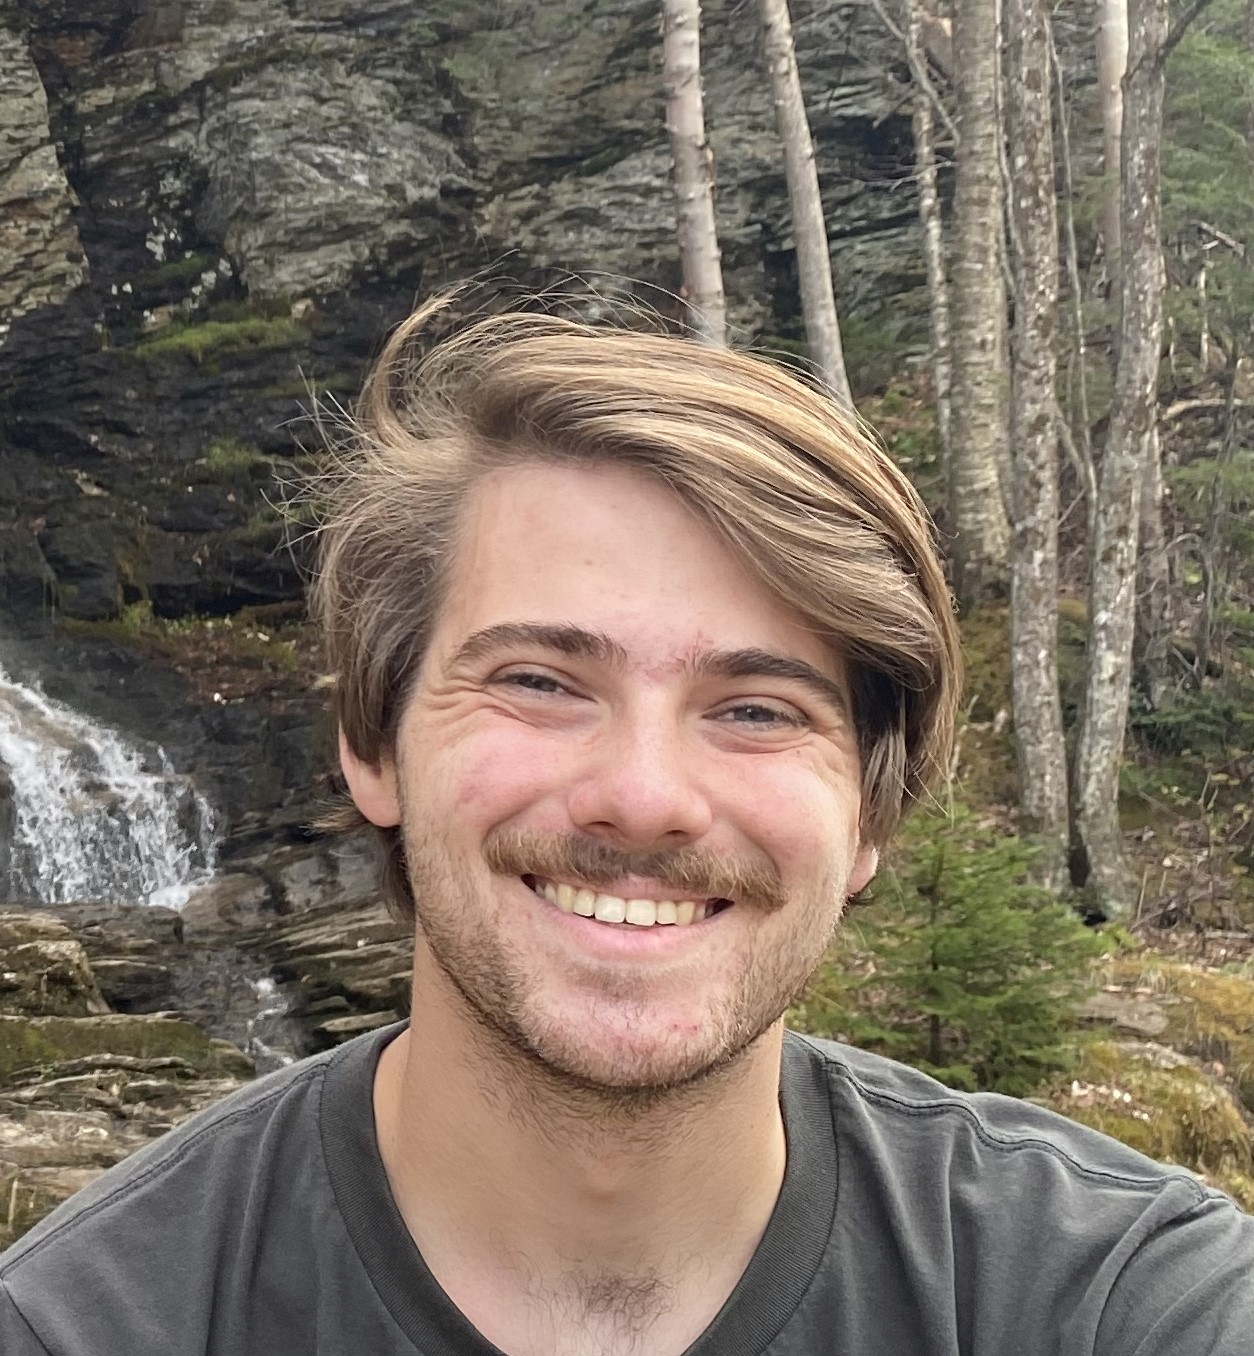
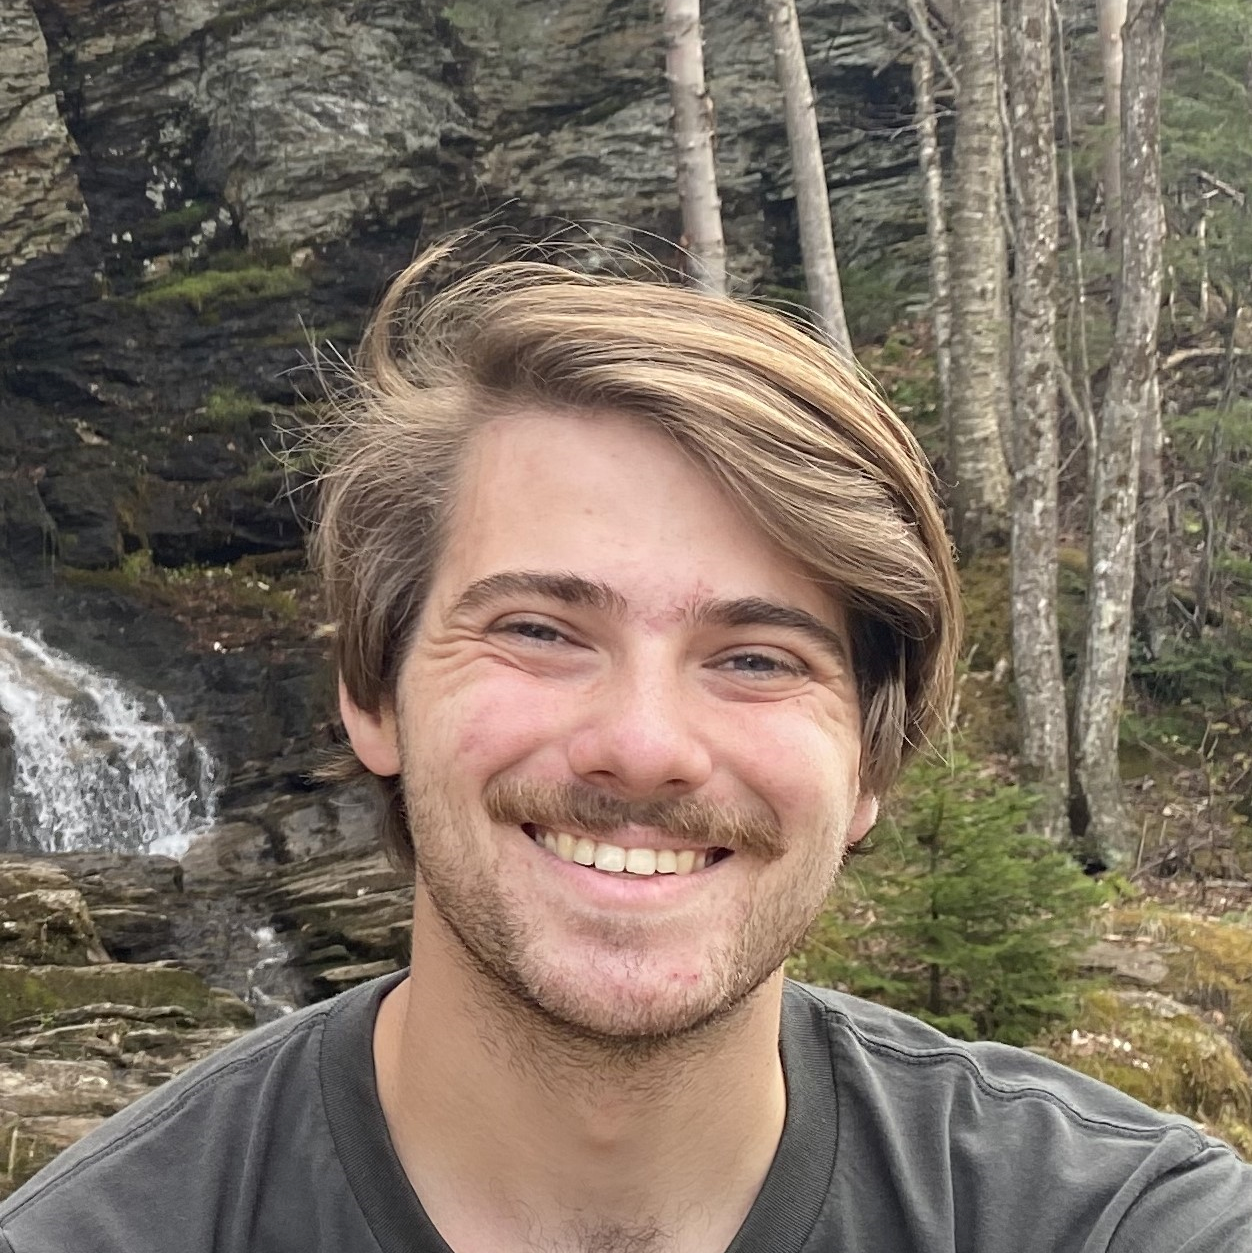
Fix profile picture and experience modal more noticeable

diff --git a/src/sections/Intro.tsx b/src/sections/Intro.tsx
@@ -1,23 +1,28 @@
-// import { TypeAnimation } from "react-type-animation";
+import { TypeAnimation } from "react-type-animation";
 
 function Intro() {
   return (
-    <div id="home" className="relative h-screen bg-[url('/bg.jpg')] bg-cover">
+    <div
+      id="home"
+      className="relative h-screen bg-[url('/bg.jpg')] bg-cover bg-center"
+    >
       <div className="mt-60 flex w-full items-center">
         {/* <h1>Hi</h1> */}
         <img
-          className="border-white/> <div ml-60 h-60 w-60 rounded-full border-4"
+          className="ml-60 aspect-square h-60 w-60 rounded-full border-4 border-white"
           src="/profile.png"
           alt="profile picture"
         />
         <div className="ml-24 text-5xl leading-normal text-white">
           <h1>Hi!</h1>
-          <h1>My name is Nathanael</h1>
-          <h1>But you can call me Nate :)</h1>
-          {/* <TypeAnimation
-            sequence={[3000, "I'm Nathaznael\nBut you can call me Nate :)"]}
-            style={{ whiteSpace: "pre-line", display: "block" }}
-          /> */}
+          {/* <h1>My name is Nathanael</h1>
+          <h1>But you can call me Nate :)</h1> */}
+          <div className="h-40">
+            <TypeAnimation
+              sequence={[1000, "I'm Nathanael\nBut you can call me Nate :)"]}
+              style={{ whiteSpace: "pre-line", display: "block" }}
+            />
+          </div>
         </div>
       </div>
     </div>

diff --git a/src/components/experience/ExperienceModal.tsx b/src/components/experience/ExperienceModal.tsx
@@ -10,7 +10,7 @@ function ExperienceModal(props: any) {
       logo={props.logo}
       button={
         <img
-          className="aspect-square w-60 rounded-lg opacity-50"
+          className="aspect-square w-60 rounded-lg opacity-50 transition delay-150 duration-300 ease-in-out hover:w-64 hover:-translate-y-1 hover:scale-110 hover:opacity-100"
           src={props.logo}
           alt={props.companyName}
         />
